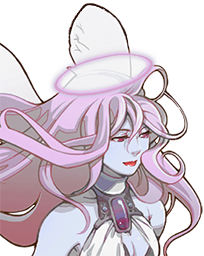
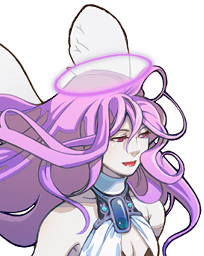
Align Zelica bust and faceset colouring (#18)

diff --git a/Bust Config.rb b/Bust Config.rb
@@ -802,7 +802,7 @@ Busty::CONFIG.merge!({
     face_offset_y: 39,
   },
   "Zelica" => {
-    face_offset_x: 78,
+    face_offset_x: 77,
     face_offset_y: 106,
   },
   "Incubus Emperor" => {
